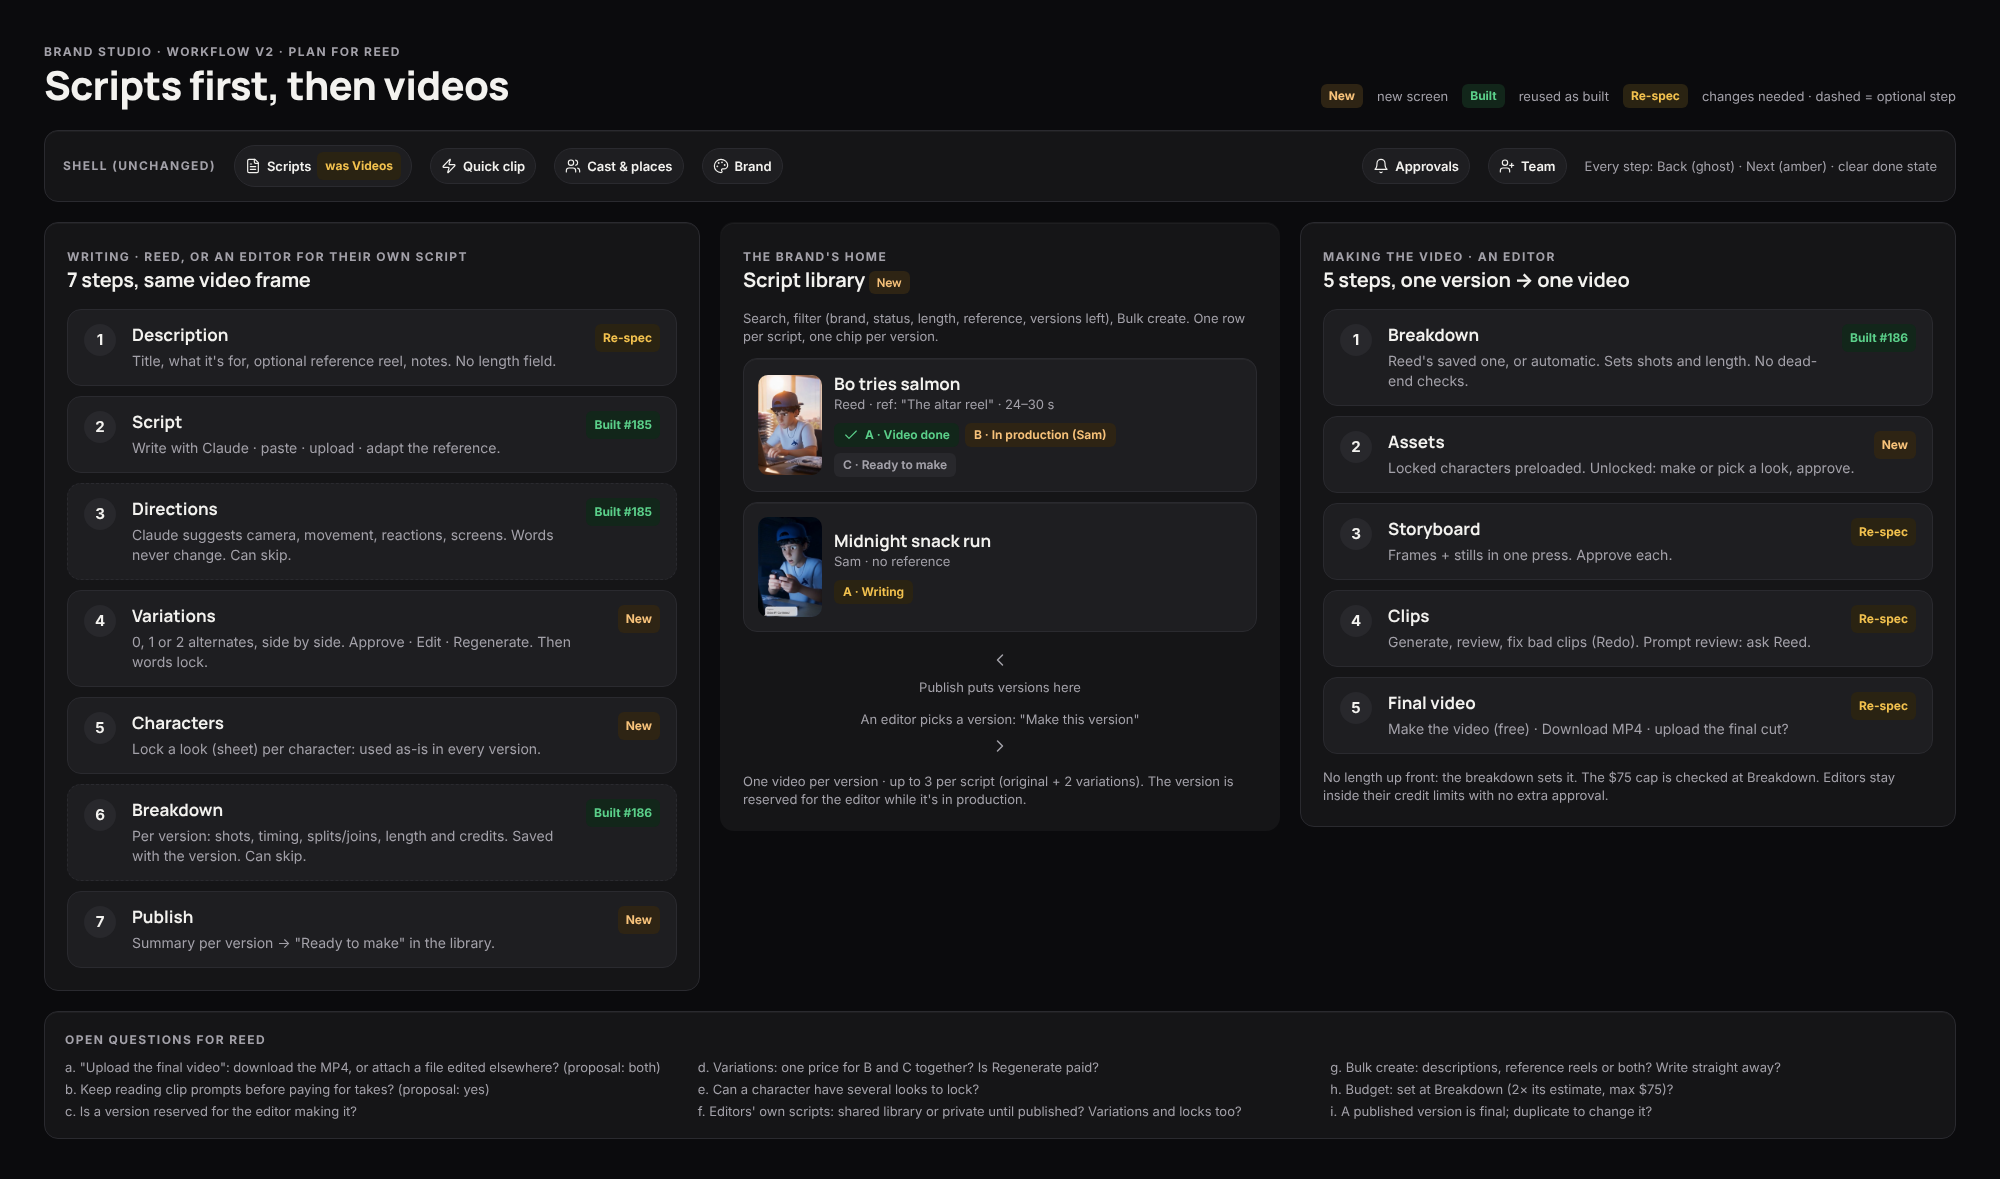
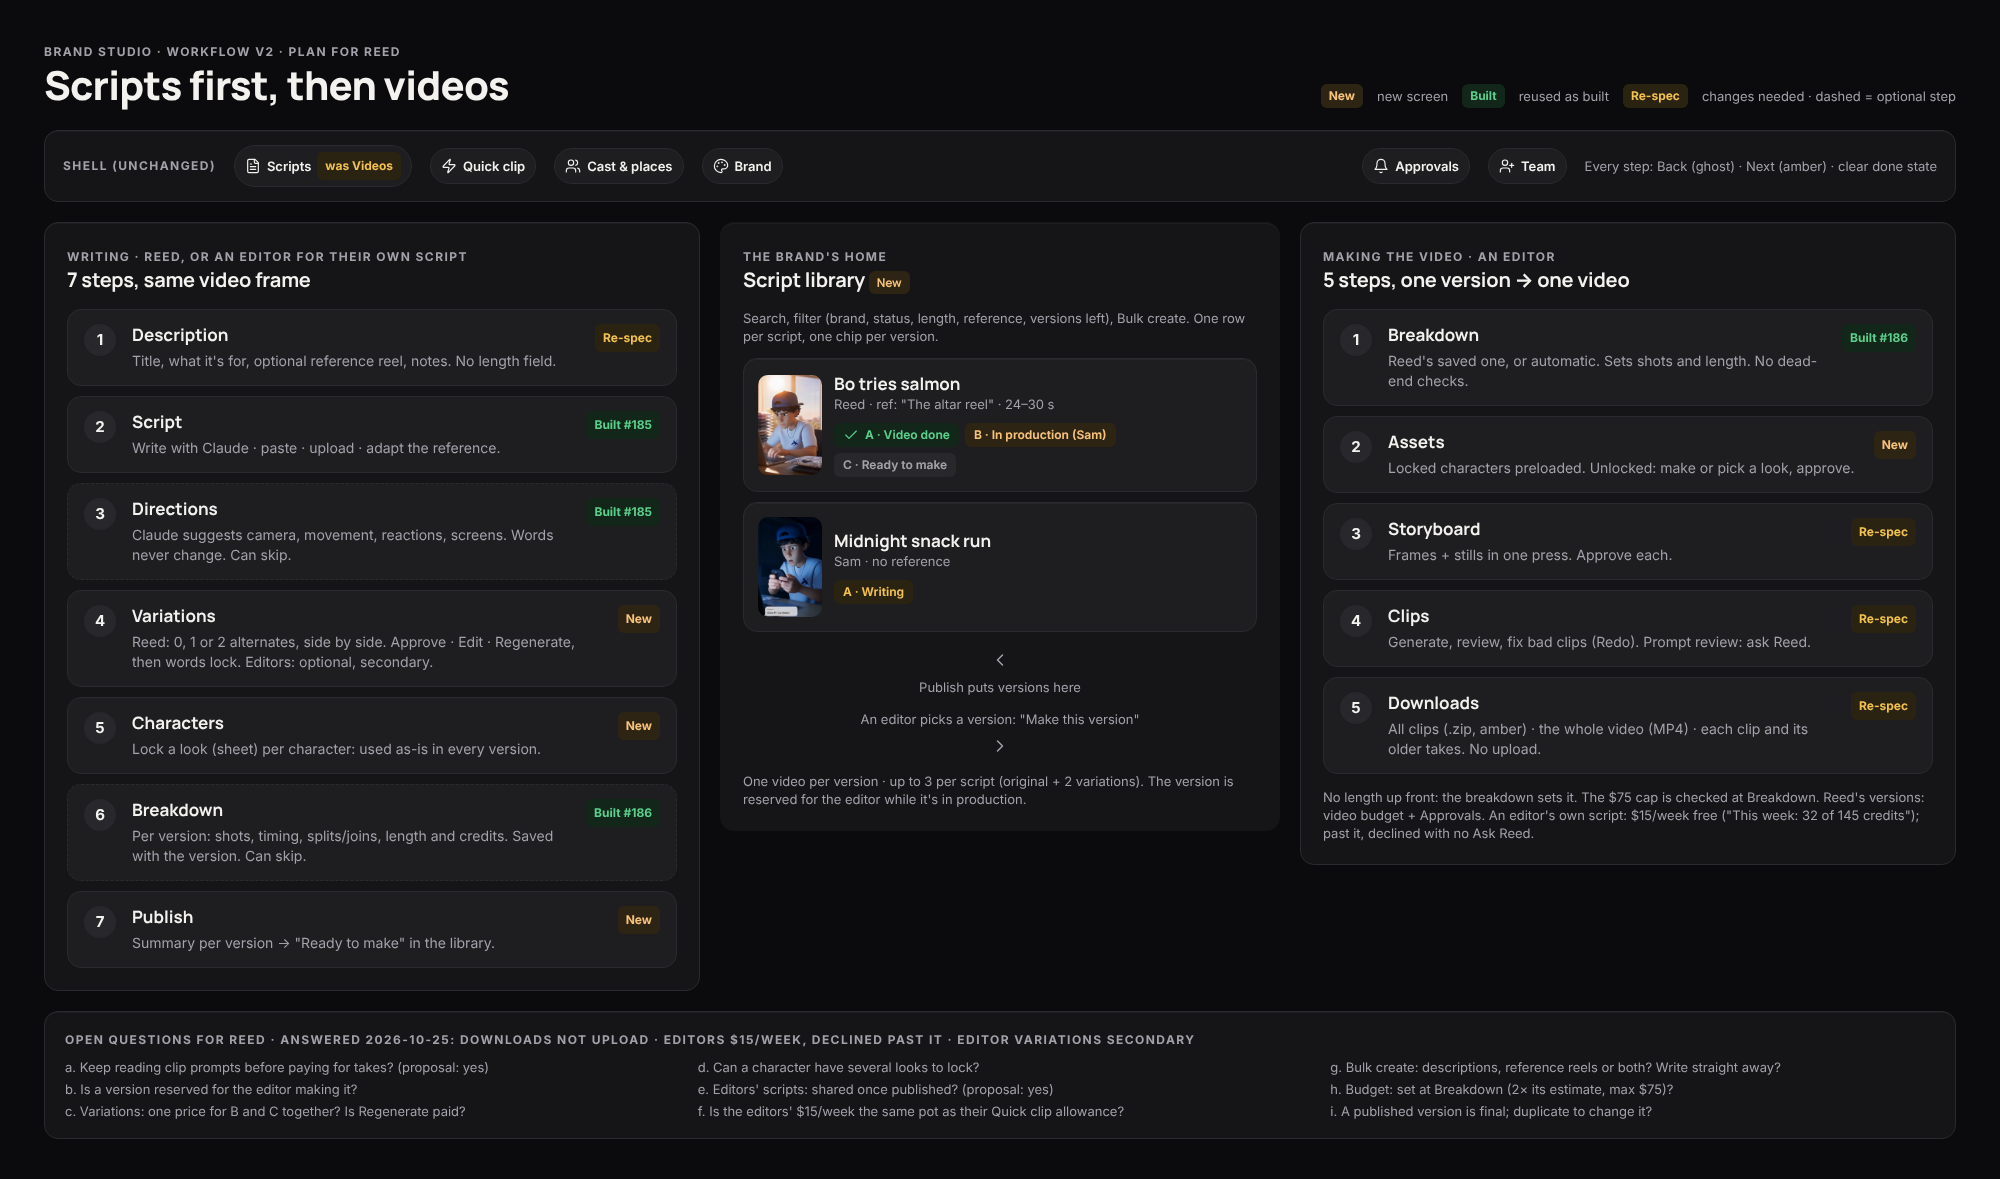
Workflow v2: fold in Reed's answers (downloads, editors' weekly allowance, secondary variations)
Final video becomes Downloads (all clips as .zip, the whole video, older takes
per clip; no upload). Editors' own scripts use $15/week (about 145 credits),
declined past it with no Ask Reed. Editor variations are optional. Remaining
questions renumbered; server needs updated.

Claude-Session: https://claude.ai/code/session_018EZgdP2tfyzLp1eHTwPkJJ

Changed region(s): [[0.031, 0.855, 0.62, 0.9466], [0.651, 0.5802, 0.961, 0.7328], [0.062, 0.5191, 0.279, 0.5802]]

diff --git a/docs/design/redesign/workflow-v2.md b/docs/design/redesign/workflow-v2.md
@@ -1,6 +1,6 @@
 # Workflow v2: scripts first, then videos (plan for Reed)
 
-**Status:** plan only, nothing is built. This follows Reed's decision of 2026-10-25 in `ops/DECISIONS.md`. It maps the new workflow onto the approved structure (phase 1) and the Screening room design (phase 3). Map: `workflow-v2-map.png`.
+**Status:** plan only, nothing is built. This follows Reed's decision of 2026-10-25 and his answers the same day, both in `ops/DECISIONS.md`. It maps the new workflow onto the approved structure (phase 1) and the Screening room design (phase 3). Map: `workflow-v2-map.png`.
 
 ## The idea in one paragraph
 A brand's home becomes the **Script library**:
@@ -14,7 +14,7 @@ Each published version can be made into **one video**. An editor picks a version
 2. Assets
 3. Storyboard
 4. Clips
-5. Final video
+5. Downloads
 
 Both flows use the same frame: header, step picker, one amber Next, and Back.
 
@@ -69,7 +69,7 @@ The frame from #179 (header, step picker, one Next, Script panel), with these st
 | 1 | **Description** | Title, brand (preset), what it's for, optional reference reel (the compact list from New video), notes. No length field. | Title and description saved |
 | 2 | **Script** | Write with Claude (drafts), paste, upload, or **Adapt the reference** (new card when a reel is picked). This is #185's step as built. | A working script exists |
 | 3 | **Directions** | Claude suggests camera, movement, reaction and brand screens; Reed's words never change. Optional: **Skip** is allowed. This is #185's Suggest directions, moved to its own step. | Applied or skipped |
-| 4 | **Variations** | Pick **0, 1 or 2** alternates. Side by side: Original · Variation B · Variation C, each in the script font, with what changed highlighted. Each one has **Approve**, **Edit** and **Regenerate · N credits**. After approval, each shows "Approved · words locked". | Every variation kept is approved (or 0 chosen) |
+| 4 | **Variations** | Reed: pick **0, 1 or 2** alternates. Editors on their own scripts: the step is skipped by default, with a secondary **Add a variation** on Publish (it isn't the main flow). Side by side: Original · Variation B · Variation C, each in the script font, with what changed highlighted. Each one has **Approve**, **Edit** and **Regenerate · N credits**. After approval, each shows "Approved · words locked". | Every variation kept is approved (or 0 chosen) |
 | 5 | **Characters** | Each character in the script is a row: picture, name, and a **Lock look** switch with a sheet picker. Locked: "Used as-is in every version." Unlocked: "The editor makes or picks a look." | Every character is decided (locked or not) |
 | 6 | **Breakdown** (optional) | Per version (tabs A / B / C): run the breakdown and edit timing, shots, splits and joins. This is #186's Shots step as built. It shows planned length and cost per version. **Skip** is allowed. | Saved for each version, or skipped |
 | 7 | **Publish** | A summary card per version: words approved, characters locked, breakdown saved or auto, estimated length and credits, then **Publish to the library**. | Versions are "Ready to make" |
@@ -88,10 +88,17 @@ A video is made **from one version**. It opens from a library chip ("Make this v
 | 2 | **Assets** (new) | One card per character, place and screen used. **Locked** characters show their sheet with "Locked by Reed", already approved. **Unlocked** ones get **Make look · N credits** (or "Pick a sheet"), then **Approve**. App screens are listed from the brand. | Every asset approved |
 | 3 | **Storyboard** | As specced (frames plus stills in one press). | Every frame approved |
 | 4 | **Clips** | Generate, then review: **Looks good**, or **Needs a change → Redo**. Whether prompts are read before paying is an open question (see 6b). | Every clip approved |
-| 5 | **Final video** | Make the video (free), then **Download MP4**. Uploading depends on question 6a. The version's chip becomes "Video done". | Video done |
+| 5 | **Downloads** | Everything to take away. There's no upload (Reed, 2026-10-25). See the layout under the table. | Downloaded or made, then "Video done" |
 
+- **Downloads (step 5):**
+  - **All clips** (amber): the picked take of every clip, in order, as one .zip: "bo-tries-salmon-clips.zip".
+  - **The whole video** (secondary): the stitched MP4, as today. It's made free the first time it's asked for.
+  - **One per clip:** a list of clips, each with **Download** for its picked take and an **Older takes (2)** disclosure. Each older take has its own Download.
+  - The version's chip becomes "Video done" once the video is made or the clips are downloaded.
 - **No length up front.** The breakdown sets it. The $75 per-video cap is checked when the breakdown is made: "This version would cost more than one video can (729 credits). Shorten it in Breakdown, or ask Reed."
-- **Credit limits:** editors work inside their own limits with no extra approval. Only spend past a limit goes to Approvals, as today.
+- **Credits, two kinds:**
+  - **Reed's library versions** keep today's rules: the video budget, with spend past it going to Approvals.
+  - **An editor's own script** uses their free weekly allowance, $15 (about 145 credits). The header shows "This week: 32 of 145 credits". Past it, a paid button is disabled with: "That's more than this week's 145 free credits. It resets on Monday." There's no "Ask Reed" on this path; it's declined, not sent for approval.
 
 ## 5. Which redesign work stands
 | PR / spec | Status | Why |
@@ -104,24 +111,24 @@ A video is made **from one version**. It opens from a library chip ("Make this v
 | 12 Brand, 13 Studio and auth | **Stand** | No change. |
 | 4 Videos home (#180) | **Re-spec** | Becomes the Script library (section 2). The poster card style is reused in library rows. |
 | 5 New video | **Re-spec** | Becomes writing step 1, Description: no length, no cast or flavour picking (characters come from the script). |
-| 8 Storyboard, 9 Clips and Final video | **Re-spec (small)** | Same screens. Add Assets before Storyboard, the version context in the header, and the upload/download decision. |
+| 8 Storyboard, 9 Clips and Final video | **Re-spec (small)** | Same screens. Add Assets before Storyboard and the version context in the header. Final video becomes **Downloads** (all clips as .zip, the whole video, older takes per clip). |
 | New | **Spec** | Script library, Variations side by side, Characters (locks), Publish, Assets, Bulk create. |
 
 ## 6. Questions for Reed
-a. **"Upload the final video":**
-   - (1) download the stitched MP4 and post it yourself, or
-   - (2) attach a file you edited elsewhere (CapCut, Premiere) to the version, so the library shows the real finished ad?
+Answered on 2026-10-25 and folded in above:
+- No upload; downloads instead.
+- Editors get $15 a week for their own scripts, and spend past it is declined.
+- Editors may make variations, as a secondary option.
 
-   Proposal: both. **Download MP4**, plus **Upload the final cut** (optional), which replaces the preview in the library.
-b. **Clip prompts before paying:** in October Reed decided prompts are always reviewable before takes are paid for. The new flow says "Generate". Keep the prompt review step in Clips? Proposal: yes, as today.
-c. **Reserving a version:** when an editor opens "Make this version", is it theirs, so nobody else can start it? Can Reed take it back?
-d. **Variations cost:**
+Still open:
+a. **Clip prompts before paying:** in October Reed decided prompts are always reviewable before takes are paid for. The new flow says "Generate". Keep the prompt review step in Clips? Proposal: yes, as today.
+b. **Reserving a version:** when an editor opens "Make this version", is it theirs, so nobody else can start it? Can Reed take it back?
+c. **Variations cost:**
    - Are B and C written together, at one Claude price?
    - Is Regenerate a paid call each time?
-e. **Several looks per character:** can a character have more than one sheet (outfits), so a lock means "this character, this look"?
-f. **Editors' own scripts:**
-   - Do they go into the shared library for everyone, or only for the editor until published?
-   - Can editors make variations and locks too?
+d. **Several looks per character:** can a character have more than one sheet (outfits), so a lock means "this character, this look"?
+e. **Editors' own scripts:** shared in the library for everyone once published, or only visible to the editor? Proposal: shared once published, marked with the editor's name.
+f. **Is the editors' $15 a week the same pot as their Quick clip allowance** (today "This week: N of 150 credits"), or a separate one?
 g. **Bulk create:**
    - Is the input a list of descriptions, several reference reels, or both?
    - Should it start writing straight away (paid), or only make drafts?
@@ -137,7 +144,8 @@ This is for the Producer to scope; the web can't do it alone.
 - The library list with filters and search, plus bulk create.
 - A video linked to a version, a version reserved by an editor, and length taken from the breakdown (no `planned_seconds` needed).
 - The Assets step: the list of assets a version needs, and approval per asset per video.
-- Optionally, uploading a final cut file to a version.
+- Downloads: one .zip of a video's picked takes, and older takes listed per clip (the files exist; the list needs an endpoint or field).
+- A weekly allowance for editors' own scripts ($15, about 145 credits). Past it the call is **declined** with a reason, not held for approval. Reed's library versions keep the video budget and Approvals.
 - The breakdown check fix: hand and screen inserts count for montage shots.
 
 ## 8. Order and ETA
